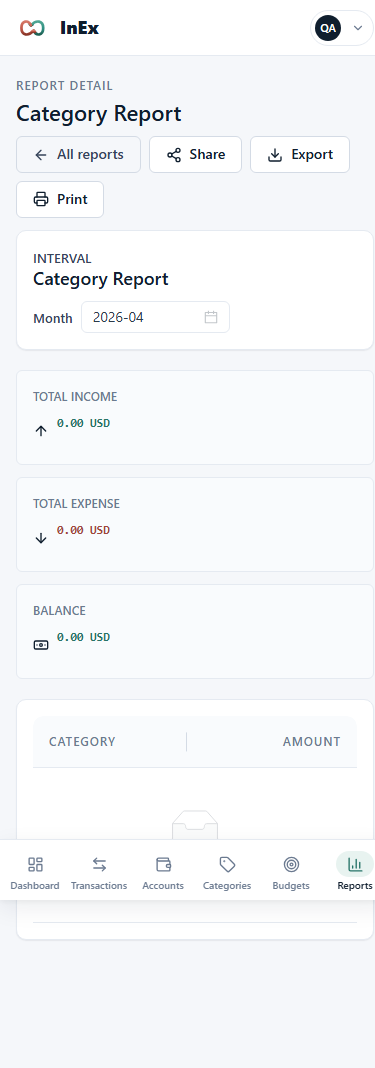
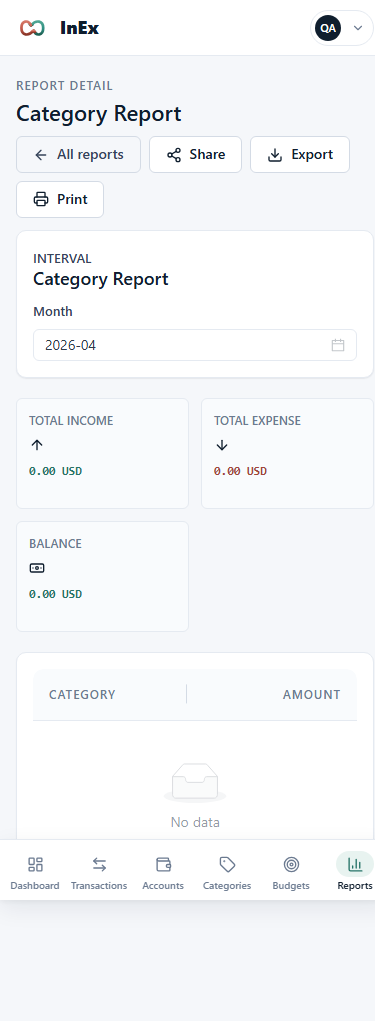
Improve report drilldown mobile accessibility (#259)
Improve report drilldown mobile accessibility

Closes #254

diff --git a/inex/ClientApp/src/pages/Reports/ReportBudgetSpending.tsx b/inex/ClientApp/src/pages/Reports/ReportBudgetSpending.tsx
@@ -136,8 +136,17 @@ const ReportBudgetSpending: React.FC = () => {
                         <h2 className="report-title">{t("reports.budgetReport")}</h2>
                     </div>
                     <div className="report-toolbar__control">
-                        <span className="report-toolbar__label">{t("reports.monthControl")}</span>
-                        <DatePicker picker="month" value={localDate} onChange={handleDateChange} allowClear={false} inputReadOnly />
+                        <label className="report-toolbar__label" htmlFor="report-budget-month">
+                            {t("reports.monthControl")}
+                        </label>
+                        <DatePicker
+                            id="report-budget-month"
+                            picker="month"
+                            value={localDate}
+                            onChange={handleDateChange}
+                            allowClear={false}
+                            inputReadOnly
+                        />
                     </div>
                 </div>
             </section>
@@ -183,7 +192,43 @@ const ReportBudgetSpending: React.FC = () => {
                 </section>
 
                 <section className="report-panel">
-                    <div className="report-table-wrap">
+                    <div className="report-mobile-list" aria-label={t("reports.budgetSummaryTitle")}>
+                        {items.map((item) => (
+                            <article className="report-mobile-list__item" key={item.categoryName}>
+                                <div className="report-mobile-list__head">
+                                    <button type="button" className="reports-link-button" onClick={() => openBudgetTransactions(item)}>
+                                        {item.categoryName}
+                                    </button>
+                                    <Num
+                                        value={item.remainingAmount}
+                                        currency={currency}
+                                        kind={item.remainingAmount >= 0 ? "income" : "expense"}
+                                    />
+                                </div>
+                                <BudgetProgress
+                                    value={item.spentAmount}
+                                    max={item.budgetedAmount}
+                                    showLabel
+                                    overBudgetLabel={t("reports.overBudget")}
+                                />
+                                <dl className="report-mobile-list__metrics">
+                                    <div>
+                                        <dt>{t("reports.budget")}</dt>
+                                        <dd><Num value={item.budgetedAmount} currency={currency} kind="neutral" /></dd>
+                                    </div>
+                                    <div>
+                                        <dt>{t("reports.spent")}</dt>
+                                        <dd><Num value={item.spentAmount} currency={currency} kind="expense" /></dd>
+                                    </div>
+                                    <div>
+                                        <dt>{t("reports.used")}</dt>
+                                        <dd>{item.percentageUsed.toFixed(1)}%</dd>
+                                    </div>
+                                </dl>
+                            </article>
+                        ))}
+                    </div>
+                    <div className="report-table-wrap report-table-wrap--desktop">
                         <Table
                             className="report-table"
                             dataSource={items}

diff --git a/inex/ClientApp/src/pages/Reports/reports.css b/inex/ClientApp/src/pages/Reports/reports.css
@@ -203,6 +203,10 @@
   min-width: 0;
 }
 
+.report-mobile-list {
+  display: none;
+}
+
 .report-table-wrap .ant-table {
   color: var(--fg-2);
   font-size: var(--fs-13);
@@ -305,6 +309,88 @@
 
   .report-chart-box {
     height: 320px;
+  }
+
+  .report-stat-grid {
+    grid-template-columns: repeat(2, minmax(0, 1fr));
+  }
+
+  .report-stat {
+    padding: var(--space-3);
+  }
+
+  .report-stat strong {
+    align-items: flex-start;
+    flex-direction: column;
+    font-size: var(--fs-16);
+  }
+
+  .report-toolbar {
+    align-items: stretch;
+    flex-direction: column;
+  }
+
+  .report-toolbar__control,
+  .report-toolbar__control .ant-picker {
+    width: 100%;
+  }
+
+  .report-table-wrap--desktop {
+    display: none;
+  }
+
+  .report-mobile-list {
+    display: grid;
+    gap: var(--space-3);
+  }
+
+  .report-mobile-list__item {
+    background: var(--bg-stripe);
+    border: 1px solid var(--border-1);
+    border-radius: var(--radius-2);
+    display: grid;
+    gap: var(--space-3);
+    min-width: 0;
+    padding: var(--space-3);
+  }
+
+  .report-mobile-list__head,
+  .report-mobile-list__metrics {
+    min-width: 0;
+  }
+
+  .report-mobile-list__head {
+    align-items: flex-start;
+    display: flex;
+    gap: var(--space-2);
+    justify-content: space-between;
+  }
+
+  .report-mobile-list__head > :last-child {
+    flex: 0 0 auto;
+  }
+
+  .report-mobile-list__metrics {
+    display: grid;
+    gap: var(--space-2);
+    grid-template-columns: repeat(3, minmax(0, 1fr));
+    margin: 0;
+  }
+
+  .report-mobile-list__metrics dt {
+    color: var(--fg-3);
+    font-size: var(--fs-12);
+    font-weight: var(--fw-semibold);
+    text-transform: uppercase;
+  }
+
+  .report-mobile-list__metrics dd {
+    color: var(--fg-1);
+    font-family: var(--font-num);
+    font-size: var(--fs-13);
+    font-variant-numeric: tabular-nums;
+    margin: var(--space-1) 0 0;
+    overflow-wrap: anywhere;
   }
 
   .report-accessible-summary__row {

diff --git a/inex/ClientApp/src/pages/Reports/ReportMonthlyHistory.tsx b/inex/ClientApp/src/pages/Reports/ReportMonthlyHistory.tsx
@@ -104,8 +104,6 @@ const ReportMonthlyHistory = () => {
     label: item.monthName,
     value: <Num value={item.savings} currency={currency} kind={item.savings >= 0 ? "income" : "expense"} />,
     detail: `${t("reports.income")}: ${tooltipFormatter(item.income)} | ${t("reports.expense")}: ${tooltipFormatter(item.expense)}`,
-    actionLabel: t("reports.viewCategoryReport"),
-    onAction: () => handleBarClick({ month: item.month }),
   }));
 
   return (
@@ -117,8 +115,17 @@ const ReportMonthlyHistory = () => {
             <h2 className="report-title">{t("reports.historyReport")}</h2>
           </div>
           <div className="report-toolbar__control">
-            <span className="report-toolbar__label">{t("reports.yearControl")}</span>
-            <DatePicker picker="year" value={dayjs().year(year)} onChange={handleYearChange} allowClear={false} inputReadOnly />
+            <label className="report-toolbar__label" htmlFor="report-history-year">
+              {t("reports.yearControl")}
+            </label>
+            <DatePicker
+              id="report-history-year"
+              picker="year"
+              value={dayjs().year(year)}
+              onChange={handleYearChange}
+              allowClear={false}
+              inputReadOnly
+            />
           </div>
         </div>
       </section>

diff --git a/inex/ClientApp/src/pages/Reports/ReportCategory.tsx b/inex/ClientApp/src/pages/Reports/ReportCategory.tsx
@@ -147,7 +147,9 @@ const ReportCategory = () => {
                         <h2 className="report-title">{t("reports.categoryReport")}</h2>
                     </div>
                     <div className="report-toolbar__control">
-                        <span className="report-toolbar__label">{t("reports.monthControl")}</span>
+                        <label className="report-toolbar__label" htmlFor="report_interval">
+                            {t("reports.monthControl")}
+                        </label>
                         <DatePicker
                             id="report_interval"
                             picker="month"

diff --git a/inex/ClientApp/src/components/SpendingHeatmap.css b/inex/ClientApp/src/components/SpendingHeatmap.css
@@ -61,6 +61,7 @@
 .spending-heatmap__chart-scroll {
   min-width: 0;
   overflow-x: auto;
+  scrollbar-gutter: stable;
   width: 100%;
 }
 
@@ -115,4 +116,12 @@
   font-family: var(--font-num);
   font-variant-numeric: tabular-nums;
   white-space: nowrap;
+}
+
+@media (max-width: 768px) {
+  .spending-heatmap__chart-scroll {
+    border: 1px solid var(--border-1);
+    border-radius: var(--radius-2);
+    box-shadow: inset -18px 0 18px -18px rgba(15, 30, 46, 0.35);
+  }
 }
